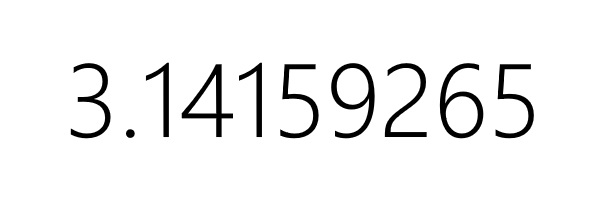
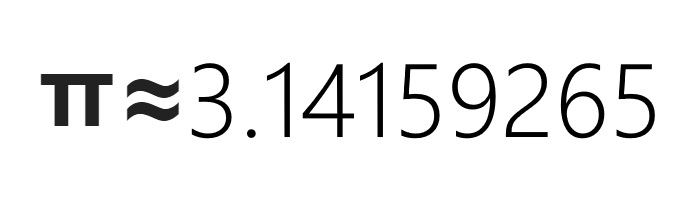
FINAL

Changed region(s): [[0.06, 0.3, 0.96, 0.72], [0.21, 0.63, 0.24, 0.69]]

diff --git a/_posts/2015-03-14-Pi-Day-Math-Fun.md b/_posts/2015-03-14-Pi-Day-Math-Fun.md
@@ -3,7 +3,7 @@ layout: post
 title: Pi Day Math Fun
 ---
 
-<h1 style="font-size: 100px; display:inline;"> &pi; &#8776; </h1> ![_config.yml]({{ site.baseurl }}/images/pi.jpg)
+![_config.yml]({{ site.baseurl }}/images/pi.jpg)
 
 Its Pi day so I am obligated to do something that has to do with Pi so I decided to find Pi. I will use calculus to do this, specifically infinite series. My calculus teacher should be very proud of me. I will be using two different methods.
 
